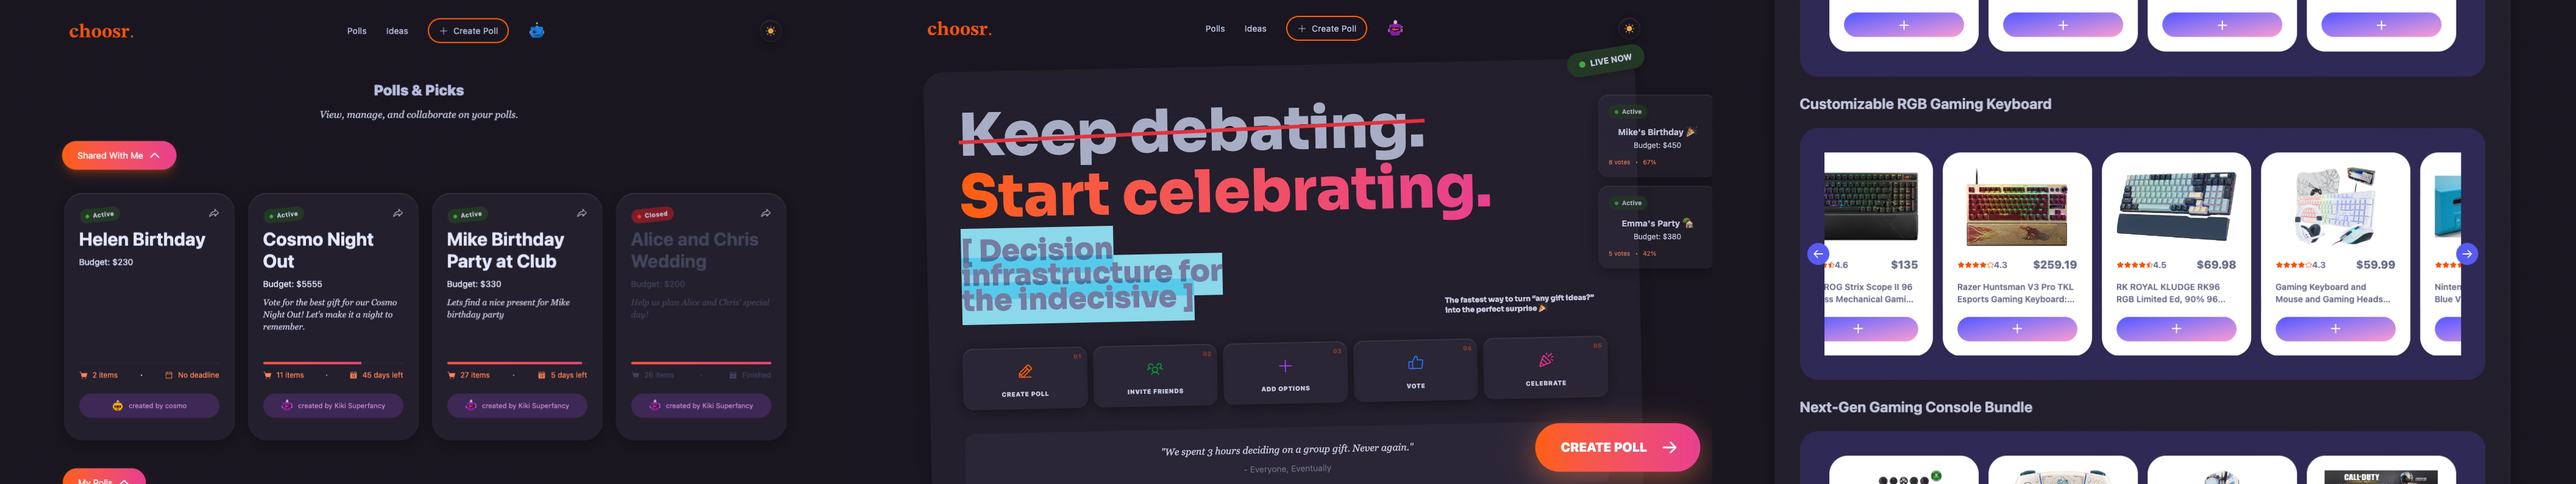
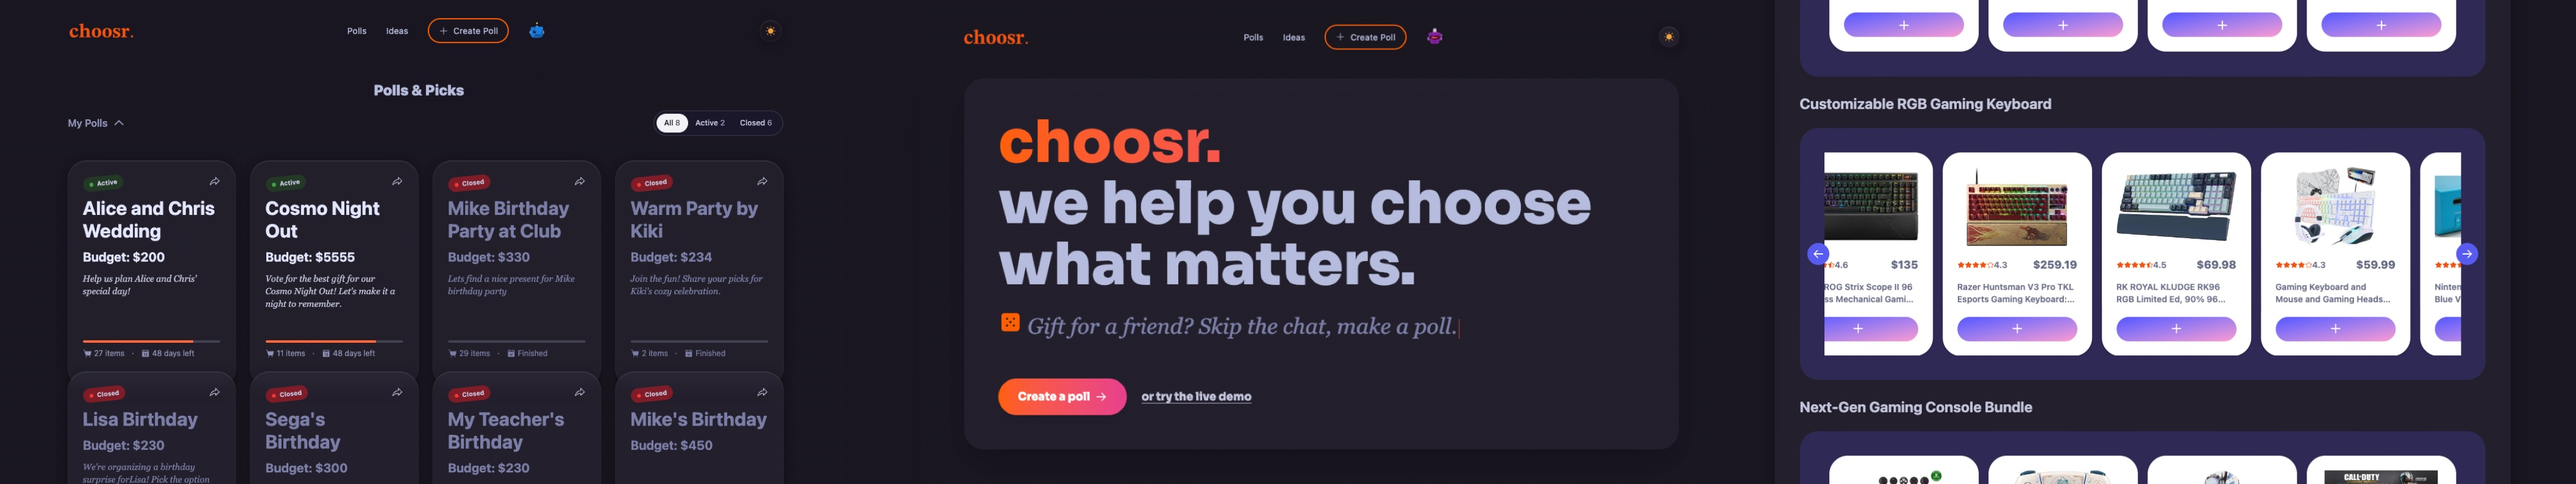
update Readme

diff --git a/README.md b/README.md
@@ -1,9 +1,9 @@
-# 🎈 Choosr — Collaborative Polls & Event Voting App
+# 🎈 choosr - Collaborative Group Voting App
 ![App Screenshot](./assets/main_page14.jpg)
 
 ![Python](https://img.shields.io/badge/Python-3.11+-blue.svg)
 ![FastAPI](https://img.shields.io/badge/FastAPI-0.118.0-009688.svg)
-![React](https://img.shields.io/badge/React-18-61DAFB.svg?logo=react)
+![React](https://img.shields.io/badge/React-19-61DAFB.svg?logo=react)
 ![TypeScript](https://img.shields.io/badge/TypeScript-5-3178C6.svg?logo=typescript)
 ![PostgreSQL](https://img.shields.io/badge/PostgreSQL-12+-336791.svg)
 ![Redis](https://img.shields.io/badge/Redis-Caching-DC382D.svg?logo=redis)
@@ -138,31 +138,14 @@ The app uses **8 tables** with clear separation of concerns:
 
 * 🔑 Keep sensitive data in `.env` — never commit it
 * 🚫 Use `.gitignore` and 🐋 `.dockerignore` to avoid uploading unnecessary or secret files
-* 🚀 Run locally via `uvicorn app.main:app --reload` or use Docker for production parity
+* 🚀 Run locally via `uvicorn main:app --reload` or use Docker for production parity
 * 🔴 Ensure Redis is running locally before starting the server (`redis-server`)
 * 🗃 Always run `alembic upgrade head` after pulling new migrations
 
 
 ## 📌 Dependencies
 
-```
-fastapi==0.118.0
-uvicorn==0.37.0
-SQLAlchemy==2.0.44
-psycopg2==2.9.11
-python-dotenv==1.1.1
-pydantic-settings==2.11.0
-pydantic==2.11.10
-python-multipart==0.0.20
-email-validator==2.3.0
-bcrypt==5.0.0
-argon2-cffi==25.1.0
-requests==2.32.5
-PyJWT==2.10.1
-alembic
-redis
-apscheduler
-```
+Full pinned list lives in [`backend/requirements.txt`](./backend/requirements.txt) — kept here only as a curated summary so this table doesn't drift out of sync with it.
 
 ### Dependency Highlights
 
@@ -176,6 +159,9 @@ apscheduler
 | `apscheduler`             | Cron job for poll deadline management        |
 | `python-dotenv`           | `.env` file management                       |
 | `email-validator`         | Email format validation on registration      |
+| `fastapi-pagination`      | Cursor/page-based pagination for list endpoints |
+| `slowapi`                 | Rate limiting on public/auth endpoints       |
+| `google-genai`            | Google Gemini client for AI gift suggestions |
 
 ---
 
